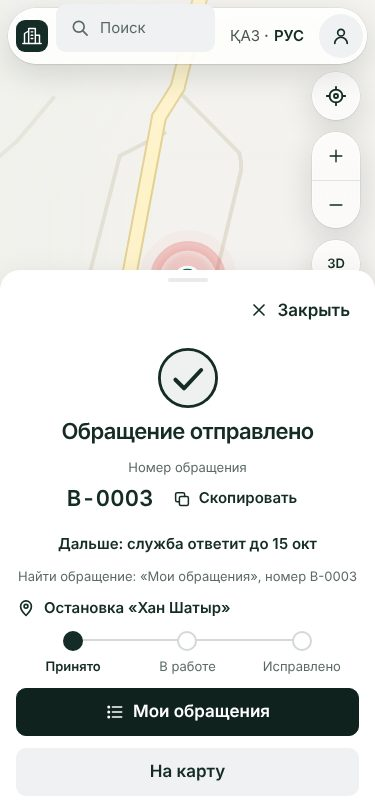
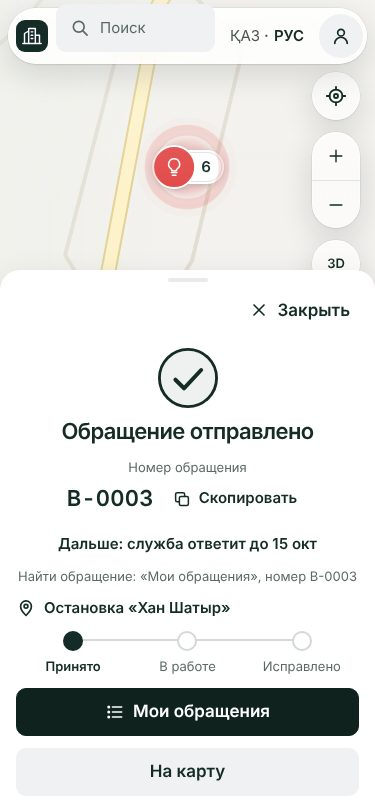
R09 design marathon: journal round 6 (map reveal above the phone sheet), refreshed step 4–5 frames
Claude-Session: https://claude.ai/code/session_01SUZcan4kzDwGe2ChmHmiMR

Changed region(s): [[0.264, 0.0616, 0.6453, 0.3387]]

diff --git a/research/round-14-results/R09/DESIGN_R09.md b/research/round-14-results/R09/DESIGN_R09.md
@@ -47,6 +47,13 @@
 | 22 | Появление списков | карточки появлялись разом | «Мои обращения» и «Обращения» — мягко одна за другой (280 мс, шаг 40 мс) только при новых данных; раскрытие строки — без движения |
 | 23 | Проектор 1024 | панель R09 400 px закрывала кнопки карты (у оболочки там 360) | как у оболочки R01: отступ 20, на 1024–1100 — 360 px |
 
+## Круг 6
+
+| # | Экран | Было | Стало |
+|---|---|---|---|
+| 24 | Телефон, шаги 4–5 | шторка по содержимому, но выбранное место оставалось под ней — над шторкой только улицы | карта мягко (450 мс) сдвигается так, что место — посередине видимой карты над шторкой (как Apple Maps): видно, к чему «Я тоже» и что отправлено; масштаб и отступы карты оболочки не меняются |
+| 25 | Ноутбук/проектор/телефон рядом с соседями | — | INTEGRATION M5: тост «Взято в работу» поверх формы «что сделали» на телефоне (R07/R01), плашка карты (R01) |
+
 ## Вопросы владельцу (STATUS.md)
 1. «Не могу проверить» — R11 (разбор 9 №3) просил ссылкой, марафон — «три большие кнопки». Сделал большой, но без заливки
    (одна главная остаётся). Если нужна ссылка — верну одной строкой.
